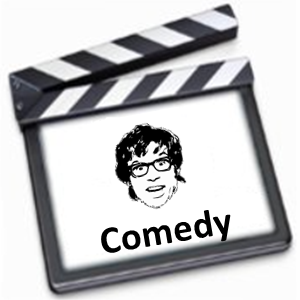
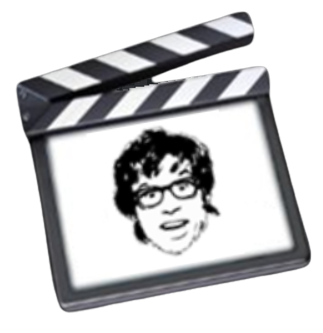
Genre images revamped

Changed region(s): [[0.0, 0.0, 0.99, 1.0], [0.6, 0.27, 0.63, 0.3], [0.42, 0.3, 0.45, 0.33]]

diff --git a/ScreenplayClassifier/MVVM/Views/GenresView.xaml b/ScreenplayClassifier/MVVM/Views/GenresView.xaml
@@ -8,37 +8,28 @@
              Style="{StaticResource UserControlStyle}">
     <Grid>
         <StackPanel>
-            <Ellipse Height="250" Width="250" Cursor="Hand" Margin="0,10,0,20">
+            <Image Source="{Binding GenreImage}" Height="250" Width="250" Cursor="Hand" Margin="0,10,0,20">
                 <i:Interaction.Triggers>
                     <i:EventTrigger EventName="MouseDown">
                         <i:InvokeCommandAction Command="{Binding SelectGenreCommand}"/>
                     </i:EventTrigger>
                 </i:Interaction.Triggers>
-                <Ellipse.Fill>
-                    <ImageBrush ImageSource="{Binding GenreImage}"/>
-                </Ellipse.Fill>
-            </Ellipse>
+            </Image>
             <WrapPanel HorizontalAlignment="Center">
-                <Ellipse Height="150" Width="150" Cursor="Hand" Margin="0,0,15,0">
+                <Image Source="{Binding SubGenre1Image}" Height="150" Width="150" Cursor="Hand" Margin="0,0,15,0">
                     <i:Interaction.Triggers>
                         <i:EventTrigger EventName="MouseDown">
                             <i:InvokeCommandAction Command="{Binding SelectSubGenre1Command}"/>
                         </i:EventTrigger>
                     </i:Interaction.Triggers>
-                    <Ellipse.Fill>
-                        <ImageBrush ImageSource="{Binding SubGenre1Image}"/>
-                    </Ellipse.Fill>
-                </Ellipse>
-                <Ellipse Height="150" Width="150" Cursor="Hand" Margin="15,0,0,0">
+                </Image>
+                <Image Source="{Binding SubGenre2Image}" Height="150" Width="150" Cursor="Hand" Margin="15,0,0,0">
                     <i:Interaction.Triggers>
                         <i:EventTrigger EventName="MouseDown">
                             <i:InvokeCommandAction Command="{Binding SelectSubGenre2Command}"/>
                         </i:EventTrigger>
                     </i:Interaction.Triggers>
-                    <Ellipse.Fill>
-                        <ImageBrush ImageSource="{Binding SubGenre2Image}"/>
-                    </Ellipse.Fill>
-                </Ellipse>
+                </Image>
             </WrapPanel>
         </StackPanel>
     </Grid>

diff --git a/ScreenplayClassifier/MVVM/Views/ReportsView.xaml b/ScreenplayClassifier/MVVM/Views/ReportsView.xaml
@@ -104,7 +104,7 @@
                 </DataGrid.Columns>
             </DataGrid>
         </StackPanel>
-        <StackPanel Grid.Row="1" Grid.Column="1" HorizontalAlignment="Center">
+        <StackPanel Grid.Row="1" Grid.Column="1" HorizontalAlignment="Center" VerticalAlignment="Center">
             <WrapPanel>
                 <StackPanel>
                     <TextBlock Text="Genre Counts" FontSize="30" HorizontalAlignment="Center" Style="{StaticResource TextBlockStyle}"/>

diff --git a/ScreenplayClassifier/MVVM/ViewModels/BrowseViewModel.cs b/ScreenplayClassifier/MVVM/ViewModels/BrowseViewModel.cs
@@ -149,10 +149,15 @@ namespace ScreenplayClassifier.MVVM.ViewModels
                         browsedScreenplay.IsChecked = false;
                         CheckedScreenplays.Remove(browsedScreenplay);
                     }
-                    else if (CheckedScreenplays.Count < 5)
+                    else
                     {
-                        browsedScreenplay.IsChecked = true;
-                        CheckedScreenplays.Add(browsedScreenplay);
+                        if (CheckedScreenplays.Count < 5)
+                        {
+                            browsedScreenplay.IsChecked = true;
+                            CheckedScreenplays.Add(browsedScreenplay);
+                        }
+                        else
+                            MessageBoxHandler.Show("You can choose up to 5 screenplays", string.Empty, 5, MessageBoxImage.Error);
                     }
 
                     CanActivate = CheckedScreenplays.Count > 0;
